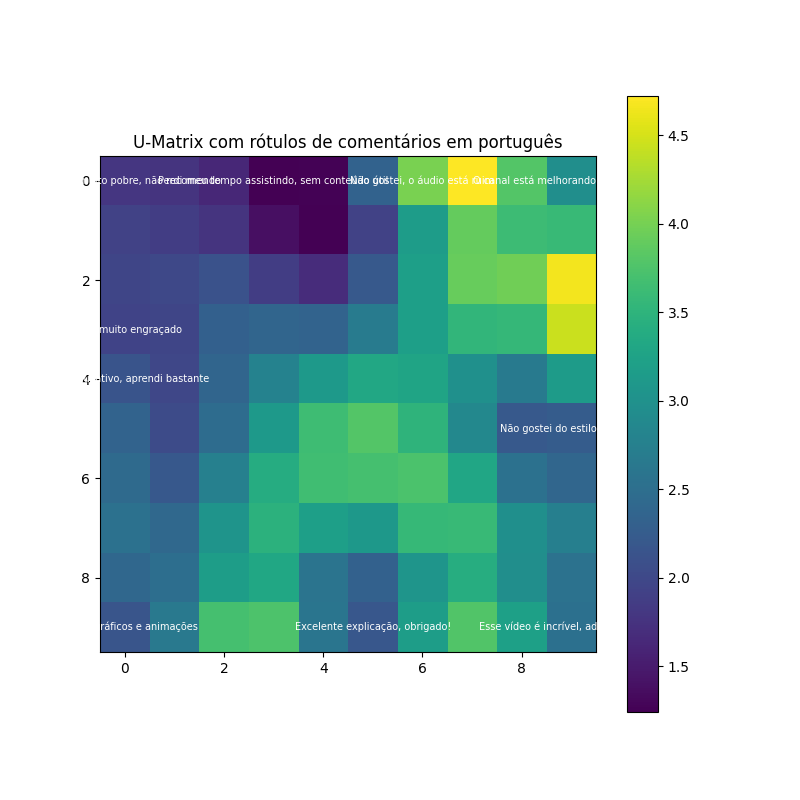
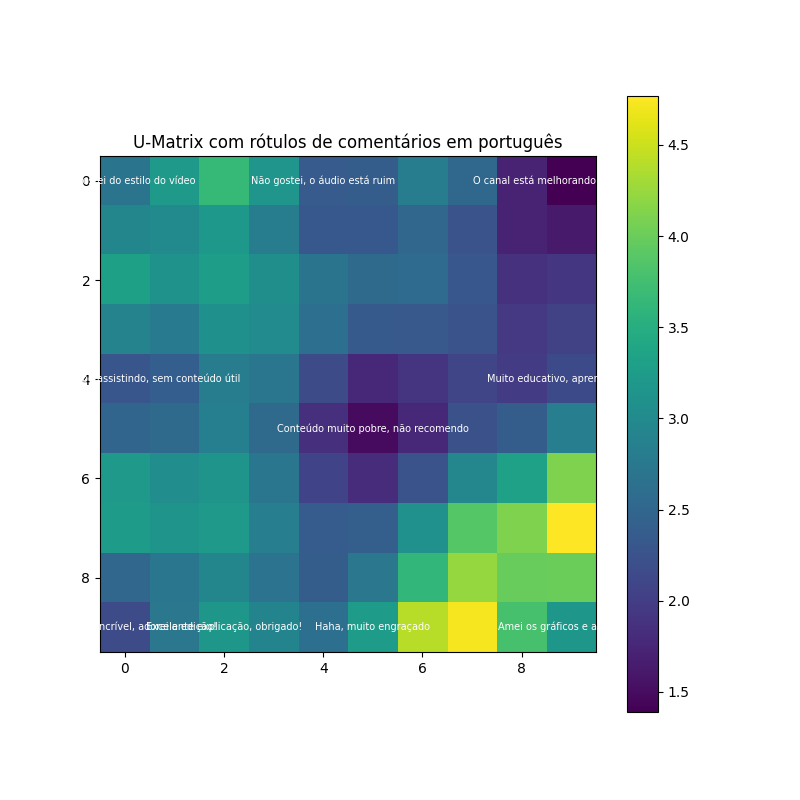
test: teste treinamento tensorflow e keras

diff --git a/src/modelo/som_keras.py b/src/modelo/som_keras.py
@@ -1,11 +1,10 @@
-from __future__ import annotations
-import tensorflow as tf
+from typing import List, Literal, Optional
+
 import numpy as np
-from typing import Optional, Literal
+import tensorflow as tf
 
 
-class SOM(tf.keras.Model):
-
+class SOMKeras(tf.keras.Model):
     def __init__(
         self,
         linhas: int,
@@ -14,10 +13,10 @@ class SOM(tf.keras.Model):
         taxa_aprendizado: float = 0.5,
         sigma: Optional[float] = None,
         metrica: Literal["euclidiana", "cosseno"] = "euclidiana",
+        log_interval: int = 50,  # frequência do log
         **kwargs
     ):
         super().__init__(**kwargs)
-
         self.linhas = linhas
         self.colunas = colunas
         self.dimensao = dimensao
@@ -25,7 +24,9 @@ class SOM(tf.keras.Model):
         self.taxa_inicial = taxa_aprendizado
         self.sigma_inicial = sigma if sigma else max(linhas, colunas) / 2
         self.metrica = metrica
+        self.log_interval = log_interval
 
+        # Pesos do SOM
         self.pesos = self.add_weight(
             shape=(self.total_neuronios, dimensao),
             initializer="random_normal",
@@ -34,77 +35,118 @@ class SOM(tf.keras.Model):
         )
 
         self.localizacoes = self._criar_localizacoes_grid()
+        self.embedding: Optional[np.ndarray] = None
 
-    # --------------------------------------------------
+    # --------------------------
     # GRID
-    # --------------------------------------------------
-
+    # --------------------------
     def _criar_localizacoes_grid(self):
         x = tf.range(self.linhas, dtype=tf.float32)
         y = tf.range(self.colunas, dtype=tf.float32)
         grid = tf.stack(tf.meshgrid(x, y), axis=-1)
-        return tf.reshape(grid, [-1, 2])  # (N,2)
+        return tf.reshape(grid, [-1, 2])
 
-    # --------------------------------------------------
-    # DISTÂNCIA (TOTALMENTE VETORIZADA)
-    # --------------------------------------------------
-
+    # --------------------------
+    # DISTÂNCIAS
+    # --------------------------
     def _distancias(self, X):
-        # X: (B, D)
-        # pesos: (N, D)
-
         if self.metrica == "cosseno":
             X = tf.nn.l2_normalize(X, axis=1)
             W = tf.nn.l2_normalize(self.pesos, axis=1)
             return 1 - tf.matmul(X, W, transpose_b=True)
-
-        # ||x-w||² = ||x||² + ||w||² - 2xwᵀ
-        x2 = tf.reduce_sum(tf.square(X), axis=1, keepdims=True)  # (B,1)
-        w2 = tf.reduce_sum(tf.square(self.pesos), axis=1)        # (N,)
+        x2 = tf.reduce_sum(tf.square(X), axis=1, keepdims=True)
+        w2 = tf.reduce_sum(tf.square(self.pesos), axis=1)
         return x2 + w2 - 2 * tf.matmul(X, self.pesos, transpose_b=True)
 
-    # --------------------------------------------------
-    # PASSO VETORIZADO
-    # --------------------------------------------------
-
+    # --------------------------
+    # PASSO DE TREINO
+    # --------------------------
     @tf.function
     def train_step_som(self, X, passo_atual, total_passos):
-
         taxa = self.taxa_inicial * tf.exp(-passo_atual / total_passos)
         sigma = self.sigma_inicial * tf.exp(-passo_atual / total_passos)
 
-        # 1⃣ Distância entrada ↔ neurônios
-        distancias = self._distancias(X)  # (B, N)
+        distancias = self._distancias(X)
+        bmu_idx = tf.argmin(distancias, axis=1)
+        bmu_loc = tf.gather(self.localizacoes, bmu_idx)
 
-        # 2⃣ BMU por amostra
-        bmu_idx = tf.argmin(distancias, axis=1)  # (B,)
+        loc_expand = tf.expand_dims(self.localizacoes, 0)
+        bmu_expand = tf.expand_dims(bmu_loc, 1)
+        dist_grade = tf.reduce_sum(tf.square(loc_expand - bmu_expand), axis=2)
 
-        # 3⃣ Coordenadas dos BMUs
-        bmu_loc = tf.gather(self.localizacoes, bmu_idx)  # (B,2)
-
-        # 4⃣ Distância de grade vetorizada
-        loc_expand = tf.expand_dims(self.localizacoes, 0)   # (1,N,2)
-        bmu_expand = tf.expand_dims(bmu_loc, 1)             # (B,1,2)
-
-        dist_grade = tf.reduce_sum(
-            tf.square(loc_expand - bmu_expand),
-            axis=2
-        )  # (B,N)
-
-        # 5⃣ Função vizinhança gaussiana
-        h = tf.exp(-dist_grade / (2.0 * sigma ** 2))  # (B,N)
-
-        # 6⃣ Atualização vetorizada real
-        # Expandir dimensões
-        h = tf.expand_dims(h, -1)        # (B,N,1)
-        X_expand = tf.expand_dims(X, 1)  # (B,1,D)
-        W_expand = tf.expand_dims(self.pesos, 0)  # (1,N,D)
-
-        delta = taxa * h * (X_expand - W_expand)  # (B,N,D)
-
-        # Soma ao invés de média (mais fiel ao batch learning)
-        delta_total = tf.reduce_mean(delta, axis=0)  # (N,D)
-
+        h = tf.exp(-dist_grade / (2.0 * sigma ** 2))
+        h = tf.expand_dims(h, -1)
+        X_expand = tf.expand_dims(X, 1)
+        W_expand = tf.expand_dims(self.pesos, 0)
+        delta = taxa * h * (X_expand - W_expand)
+        delta_total = tf.reduce_mean(delta, axis=0)
         self.pesos.assign_add(delta_total)
-
         return taxa, sigma
+
+    # --------------------------
+    # FIT COM EMBEDDINGS
+    # --------------------------
+    def fit_embeddings(self, embeddings: np.ndarray, passos: int = 1000, batch_size: int = 32):
+        """
+        Treina o SOM com embeddings já tratados e calcula erro de quantização.
+        """
+        self.embedding = embeddings
+        X = tf.convert_to_tensor(embeddings, dtype=tf.float32)
+        n_amostras = X.shape[0]
+
+        for passo_atual in range(passos):
+            idx = np.random.choice(n_amostras, size=batch_size, replace=False)
+            batch = tf.gather(X, idx)
+            taxa, sigma = self.train_step_som(batch, passo_atual, passos)
+
+            # log a cada log_interval
+            if (passo_atual + 1) % self.log_interval == 0 or passo_atual == 0:
+                q_error = self.quantization_error(X)
+                print(
+                    f"[Passo {passo_atual+1}/{passos}] taxa={taxa.numpy():.4f}, sigma={sigma.numpy():.4f}, erro_quantizacao={q_error:.4f}")
+
+    # --------------------------
+    # ERRO DE QUANTIZAÇÃO
+    # --------------------------
+    def quantization_error(self, X: Optional[tf.Tensor] = None):
+        """
+        Retorna o erro de quantização médio: distância média entre cada vetor e seu BMU
+        """
+        if X is None:
+            if self.embedding is None:
+                raise ValueError(
+                    "Nenhum embedding disponível para cálculo do erro de quantização.")
+            X = tf.convert_to_tensor(self.embedding, dtype=tf.float32)
+
+        distancias = self._distancias(X)
+        min_dist = tf.reduce_min(distancias, axis=1)
+        return tf.reduce_mean(min_dist).numpy()
+
+    # --------------------------
+    # MAPEAR COMENTÁRIOS
+    # --------------------------
+    def map_embeddings(self, embeddings: Optional[np.ndarray] = None):
+        if embeddings is None:
+            if self.embedding is None:
+                raise ValueError(
+                    "Nenhum embedding disponível. Passe embeddings ou treine primeiro.")
+            embeddings = self.embedding
+
+        X = tf.convert_to_tensor(embeddings, dtype=tf.float32)
+        distancias = self._distancias(X)
+        bmu_idx = tf.argmin(distancias, axis=1)
+        bmu_loc = tf.gather(self.localizacoes, bmu_idx)
+        return bmu_loc.numpy()
+
+    # --------------------------
+    # GERAR MAPA SEMÂNTICO
+    # --------------------------
+    def get_grid_map(self, textos: List[str], embeddings: Optional[np.ndarray] = None):
+        locs = self.map_embeddings(embeddings)
+        mapa = {}
+        for texto, loc in zip(textos, locs):
+            key = tuple(map(int, loc))
+            if key not in mapa:
+                mapa[key] = []
+            mapa[key].append(texto)
+        return mapa

diff --git a/treinamento_cinco.py b/treinamento_cinco.py
@@ -25,7 +25,8 @@ comentarios = [
 embeddings = np.array(
     [nlp(text).vector for text in comentarios], dtype=np.float32)
 print("Shape embeddings:", embeddings.shape)
-print("Exemplo embedding:", embeddings[0][:5])  # Exibe os primeiros 5 valores do primeiro embedding
+# Exibe os primeiros 5 valores do primeiro embedding
+print("Exemplo embedding:", embeddings[0][:5])
 
 batch_size = 16
 dataset = tf.data.Dataset.from_tensor_slices(
@@ -50,18 +51,22 @@ som.treinar(
 
 
 indices_bmu, coordenadas = som.mapear(embeddings)
+print(indices_bmu, coordenadas)
 
 rotulos = som.rotular_por_centroide(
     textos=comentarios,
     embeddings=embeddings,
     min_docs=3  # neurônios com menos de 3 comentários são ignorados
 )
-print(rotulos)
-print(som.erro_quantizacao(embeddings))
 
 # Exibir neurônios rotulados
 for neuronio, label in rotulos.items():
     print(f"Neurônio {neuronio}: {label}")
+
+
+for neuronio, label in rotulos.items():
+    i, j = som.localizacoes[neuronio].numpy().astype(int)
+    print(f"({i}, {j}): ['{label}']")
 
 
 u_matrix = som.calcular_u_matrix()

diff --git a/treinamento_seis.py b/treinamento_seis.py
@@ -1,0 +1,29 @@
+import numpy as np
+import spacy
+
+from src.modelo.som_keras import SOMKeras
+
+nlp = spacy.load("pt_core_news_lg")
+
+comentarios = [
+    "ótimo vídeo!",
+    "não gostei desse conteúdo",
+    "excelente explicação",
+    "ruim, não recomendo"
+]
+
+# Criar embeddings
+embeddings = np.array(
+    [nlp(texto).vector for texto in comentarios], dtype=np.float32)
+
+# Criar SOM
+dim = embeddings.shape[1]
+som = SOMKeras(linhas=10, colunas=10, dimensao=dim, log_interval=100)
+
+# Treinar SOM com log informativo
+som.fit_embeddings(embeddings, passos=500, batch_size=2)
+
+# Gerar mapa semântico
+mapa = som.get_grid_map(comentarios)
+for k, v in mapa.items():
+    print(f"{k}: {v}")
